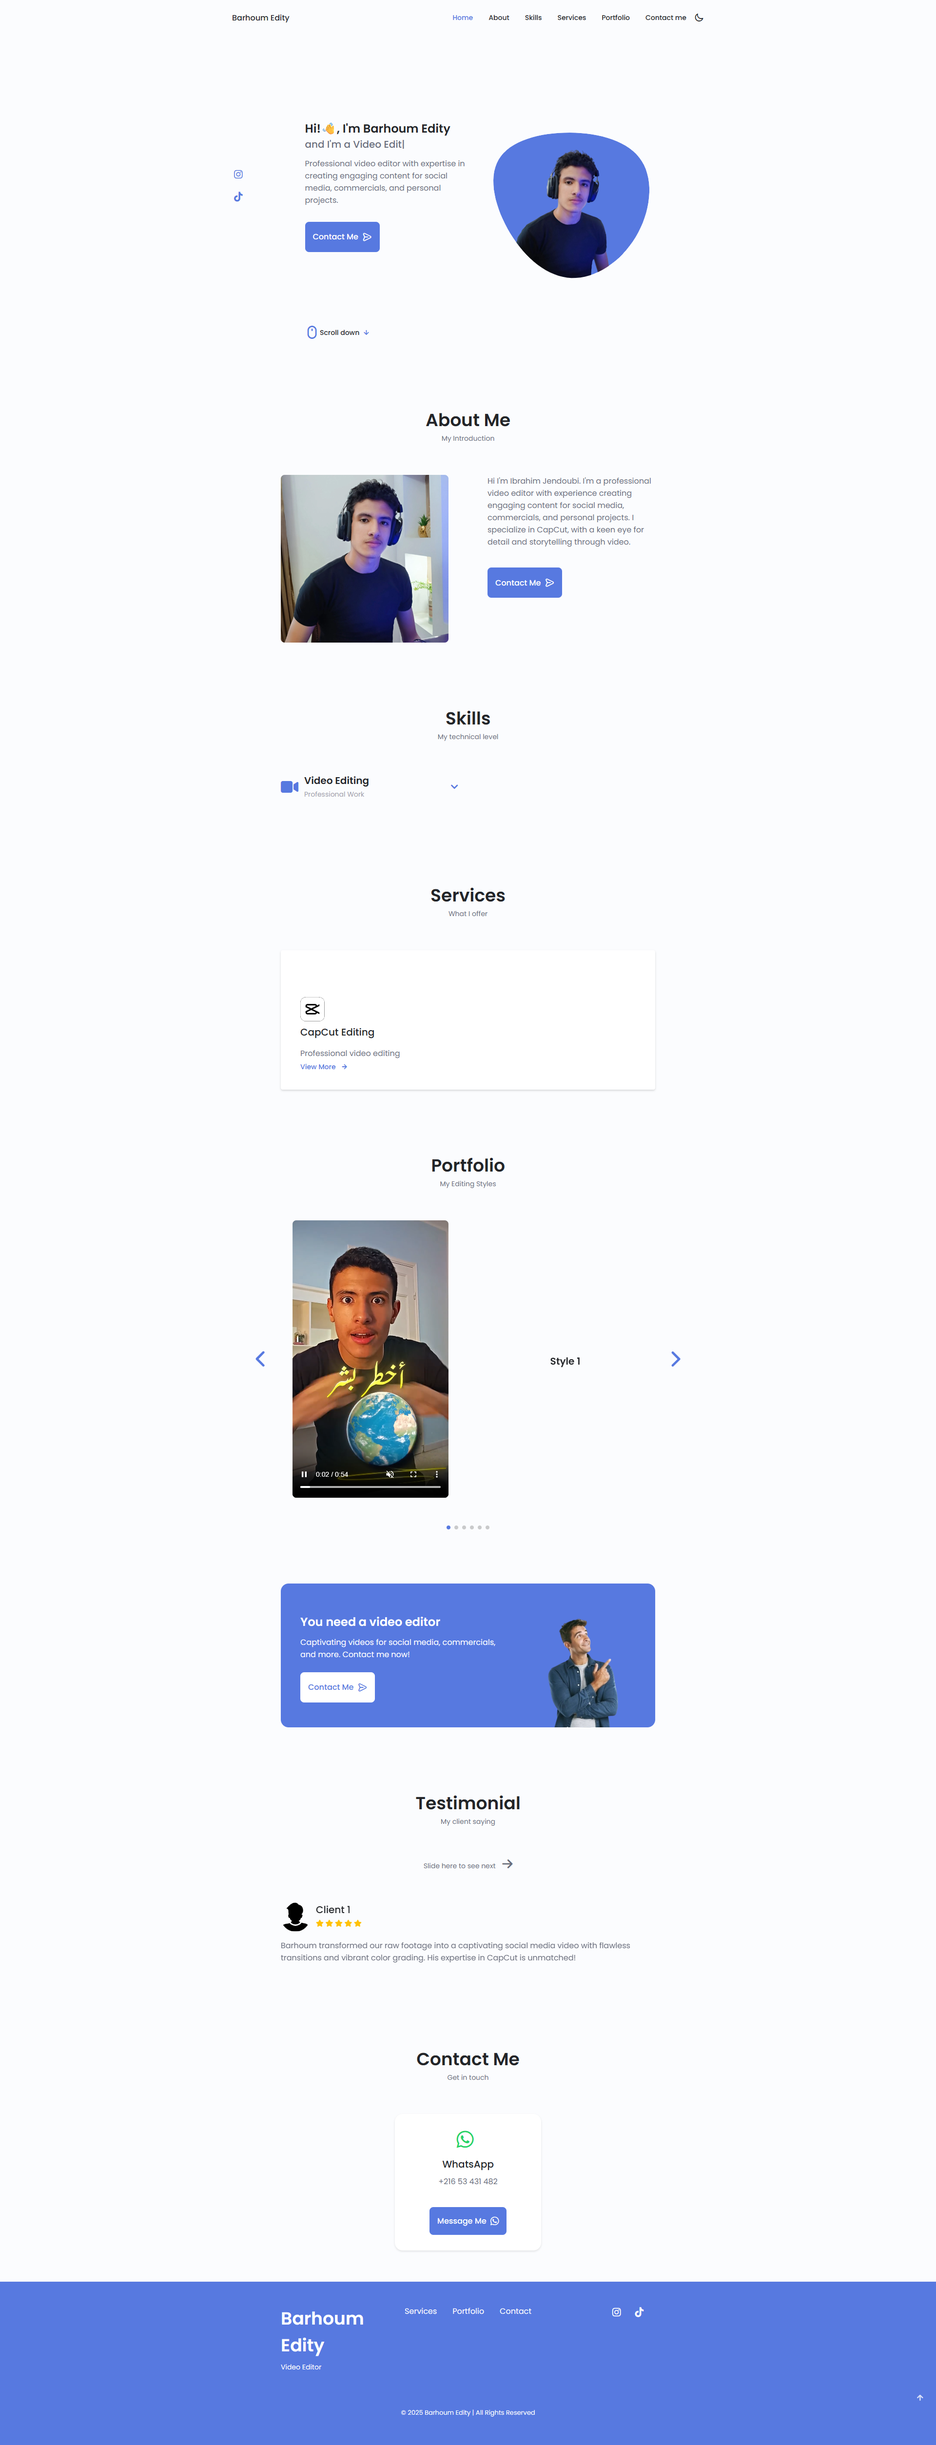
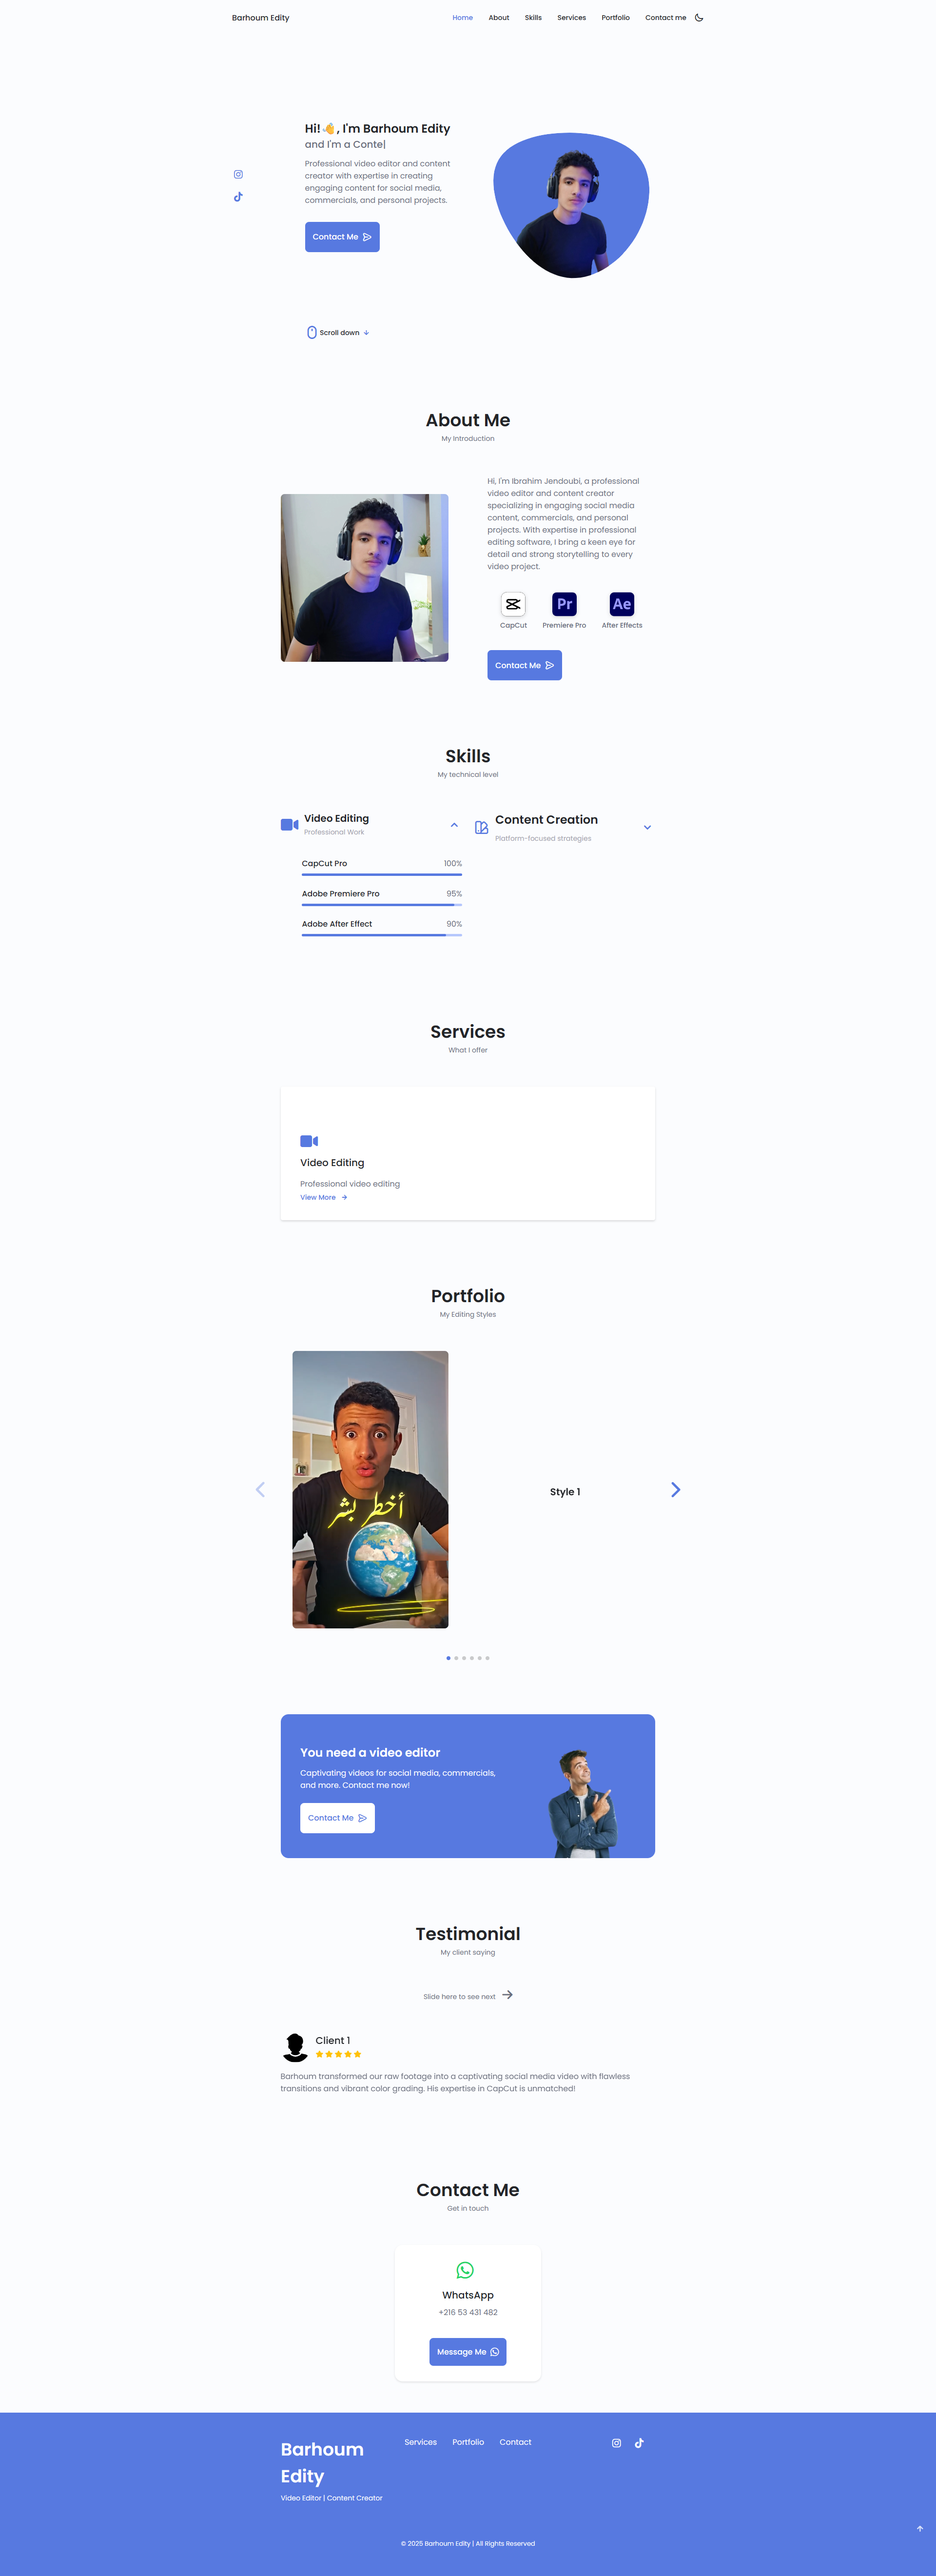
Add files via upload

diff --git a/index.html b/index.html
@@ -7,7 +7,7 @@ Copyright © 2025 Rayen. All rights reserved.
 -->
 <head>
     <meta charset="UTF-8" />
-    <meta name="viewport" content="width=device-width, initial-scale=1.0" />
+    <meta name="viewport" content="width=device-width, initial-scale=1.0, maximum-scale=1.0, user-scalable=no">
     <meta name="description" content="I'm Mrinmoy,and this is my personal portfolio website..">
     <meta name="keywords" content="Mrinmoy, Mrinmoy Deka, mrinmoy ">
 
@@ -134,7 +134,7 @@ Copyright © 2025 Rayen. All rights reserved.
                             and I'm <span class="auto-input"></span>
                         </h3>
                         <p class="home__description">
-                            Professional video editor with expertise in creating engaging content for social media, commercials, and personal projects.
+                            Professional video editor and content creator with expertise in creating engaging content for social media, commercials, and personal projects.
                         </p>
                         <a href="#contact" class="button button--flex">
                             Contact Me <i class="uil uil-message button__icon"></i>
@@ -162,26 +162,22 @@ Copyright © 2025 Rayen. All rights reserved.
 
                 <div class="about__data">
                     <p class="about__description">
-                        Hi I'm Ibrahim Jendoubi. I'm a professional video editor with experience creating engaging content for social media, commercials, and personal projects. I specialize in CapCut, with a keen eye for detail and storytelling through video.
+                        Hi, I'm Ibrahim Jendoubi, a professional video editor and content creator specializing in engaging social media content, commercials, and personal projects. With expertise in professional editing software, I bring a keen eye for detail and strong storytelling to every video project.
                     </p>
-
-                    <!-- <div class="about_info">
-                        <div>
-                            <span class="about__info-title">02+</span>
-                            <span class="about__info-name">Years <br />
-                                experience</span>
+                    <div class="about__skills">
+                        <div class="skill__icon">
+                            <img src="assets/img/capcut.svg" alt="CapCut" title="CapCut Pro">
+                            <span class="skill__name">CapCut</span>
                         </div>
-                        <div>
-                            <span class="about__info-title">20+</span>
-                            <span class="about__info-name">Completed <br />
-                                project</span>
+                        <div class="skill__icon">
+                            <img src="assets/img/premiere.svg" alt="Premiere Pro" title="Adobe Premiere Pro">
+                            <span class="skill__name">Premiere Pro</span>
                         </div>
-                        <div>
-                            <span class="about__info-title">24/7</span>
-                            <span class="about__info-name">Online<br />
-                                support</span>
+                        <div class="skill__icon">
+                            <img src="assets/img/aftereffects.svg" alt="After Effects" title="Adobe After Effects">
+                            <span class="skill__name">After Effects</span>
                         </div>
-                    </div> -->
+                    </div>
 
                     <div class="about__buttons">
                         <a href="#contact" class="button button--flex">
@@ -196,7 +192,7 @@ Copyright © 2025 Rayen. All rights reserved.
         <section class="skills section" id="skills">
             <h2 class="section__title">Skills</h2>
             <span class="section__subtitle">My technical level</span>
-        
+
             <div data-aos="fade-up" class="skills__container container grid">
                 <div>
                     <!--==================== SKILL 1 ====================-->
@@ -220,10 +216,77 @@ Copyright © 2025 Rayen. All rights reserved.
                                     <span class="skills__percentage skills__capcut"></span>
                                 </div>
                             </div>
+                            <div class="skills__data">
+                                <div class="skills__titles">
+                                    <h3 class="skills__name">Adobe Premiere Pro</h3>
+                                    <span class="skills__number">95%</span>
+                                </div>
+                                <div class="skills__bar">
+                                    <span class="skills__percentage skills__premiere"></span>
+                                </div>
+                            </div>
+                            <div class="skills__data">
+                                <div class="skills__titles">
+                                    <h3 class="skills__name">Adobe After Effect</h3>
+                                    <span class="skills__number">90%</span>
+                                </div>
+                                <div class="skills__bar">
+                                    <span class="skills__percentage skills__afterEffect"></span>
+                                </div>
+                            </div>
+                        </div>
+                    </div>
+                </div>
+
+                <div>
+                    <!--==================== SKILL 2 ====================-->
+                    <div class="skills__content skills__close">
+                        <div class="skills__header">
+                            <i class="uil uil-swatchbook skills__icon"></i>
+                            <div>
+                                <h1 class="skills__titles">Content Creation</h1>
+                                <span class="skills__subtitle">Platform-focused strategies</span>
+                            </div>
+                            <i class="uil uil-angle-down skills__arrow"></i>
+                        </div>
+                    
+                        <div class="skills__list grid">
+                            <div class="skills__data">
+                                <div class="skills__titles">
+                                    <h3 class="skills__name">Social Video Production</h3>
+                                    <span class="skills__number">90%</span>
+                                </div>
+                                <div class="skills__bar">
+                                    <span class="skills__percentage skills__production"></span>
+                                </div>
+                            </div>
+                    
+                            <div class="skills__data">
+                                <div class="skills__titles">
+                                    <h3 class="skills__name">Audience Engagement</h3>
+                                    <span class="skills__number">85%</span>
+                                </div>
+                                <div class="skills__bar">
+                                    <span class="skills__percentage skills__engagement"></span>
+                                </div>
+                            </div>
+                    
+                            <div class="skills__data">
+                                <div class="skills__titles">
+                                    <h3 class="skills__name">Platform Algorithms</h3>
+                                    <span class="skills__number">80%</span>
+                                </div>
+                                <div class="skills__bar">
+                                    <span class="skills__percentage skills__algorithms"></span>
+                                </div>
+                            </div>
                         </div>
                     </div>
                 </div>
             </div>
+            </div>
+
+
         </section>
 
         <!--==================== SERVICES ====================-->
@@ -235,12 +298,12 @@ Copyright © 2025 Rayen. All rights reserved.
                 <!-- Single Service -->
                 <div class="services__content">
                     <div class="services__header">
-                        <div class="services__icon-container">
-                            <img src="assets/img/capcut.svg" alt="CapCut" class="services__svg-icon">
+                        <div class="services__icon-container" style="padding-bottom: 10px;">
+                            <i class="fas fa-video skills__icon"></i>
                         </div>
                         <div>
-                            <h3 class="services__title">CapCut Editing</h3>
-                            <span class="services__subtitle" style="padding-bottom: 100px;">Professional video editing</span>
+                            <h3 class="services__title" style="padding-bottom: 0px;">Video Editing</h3>
+                            <span class="services__subtitle">Professional video editing</span>
                         </div>
                     </div>
                     <span class="button button--flex button--small button--link services__button">
@@ -250,7 +313,7 @@ Copyright © 2025 Rayen. All rights reserved.
         
                     <div class="services__modal">
                         <div class="services__modal-content">
-                            <h4 class="services__modal-title">CapCut Video Editing</h4>
+                            <h4 class="services__modal-title">Video Editing</h4>
                             <i class="uil uil-times services__modal-close"></i>
                     
                             <ul class="services__modal-services grid">
@@ -512,7 +575,7 @@ Copyright © 2025 Rayen. All rights reserved.
             <div class="footer__container container grid">
                 <div>
                     <h1 class="footer__title">Barhoum Edity</h1>
-                    <span class="footer__subtitle">Video Editor</span>
+                    <span class="footer__subtitle">Video Editor | Content Creator</span>
                 </div>
 
                 <ul class="footer__links">
@@ -558,7 +621,10 @@ Copyright © 2025 Rayen. All rights reserved.
     <script src="https://cdn.jsdelivr.net/npm/typed.js@2.0.12"></script>
     <script>
         var typed = new Typed(".auto-input", {
-                strings: ["a Video Editor"],
+                strings: [
+                "a Video Editor",
+                "a Content Creator",
+            ],
                 typeSpeed: 100,
                 backSpeed: 100,
                 loop: true

diff --git a/assets/css/style.css b/assets/css/style.css
@@ -1,6 +1,5 @@
 /*==================== GOOGLE FONTS ====================*/
 @import url("https://fonts.googleapis.com/css2?family=Poppins:wght@400;500;600&display=swap");
-
 /*==================== VARIABLES CSS ====================*/
 :root {
   --header-height: 3rem;
@@ -421,7 +420,7 @@ img {
   margin-bottom: var(--mb-2-5);
 }
 
-.about_info {
+/* .about_info {
   display: flex;
   justify-content: space-evenly;
   margin-bottom: var(--mb-2-5);
@@ -441,7 +440,46 @@ img {
 .about__info-name {
   display: block;
   text-align: center;
+} */
+
+/*==================== ABOUT SKILL ICONS ====================*/
+.about__skills {
+    display: flex;
+    justify-content: center;
+    gap: 2rem;
+    margin-bottom: var(--mb-2-5);
 }
+
+.skill__icon {
+    display: flex;
+    flex-direction: column;
+    align-items: center;
+    transition: transform 0.3s ease;
+}
+
+.skill__icon img {
+    width: 50px;
+    height: 50px;
+    margin-bottom: var(--mb-0-5);
+    filter: drop-shadow(0 2px 4px rgba(0, 0, 0, 0.15));
+}
+
+.skill__icon:hover {
+    transform: translateY(-0.25rem);
+}
+
+.skill__name {
+    font-size: var(--small-font-size);
+    color: var(--text-color);
+    font-weight: var(--font-medium);
+}
+
+/* Dark theme adjustments */
+body.dark-theme .skill__icon img {
+    filter: drop-shadow(0 2px 4px rgba(0, 0, 0, 0.4));
+}
+
+
 
 .about__buttons {
   display: flex;
@@ -451,11 +489,6 @@ img {
 /*==================== SKILLS ====================*/
 .skills__container {
   row-gap: 0;
-}
-
-.skills__content {
-    width: 100%;
-    max-width: 500px;
 }
 
 .skills__header {
@@ -521,6 +554,28 @@ img {
   background-color: var(--first-color);
 }
 
+.skills__premiere {
+  width: 95%;
+}
+
+.skills__afterEffect {
+  width: 90%;;
+}
+
+.skills__capcut {
+    width: 100%;
+}
+
+.skills__production {
+    width: 90%;
+}
+.skills__engagement {
+    width: 85%;
+}
+.skills__algorithms {
+    width: 80%;
+}
+
 .skills__close .skills__list {
   height: 0;
   overflow: hidden;
@@ -535,9 +590,6 @@ img {
   transform: rotate(-180deg);
 }
 
-.skills__capcut {
-    width: 100%;
-}
 
 /*==================== SERVICES ====================*/
 .skills__container {
@@ -1345,8 +1397,52 @@ footer .footer__social a:hover {
   }
 }
 
-/*==================== Skills logo ====================*/
-.skills__logo:hover{
-  transform: translateY(-.25rem);
-  transition: 1s;
+/* 1. Ensure containers don't exceed viewport */
+@media screen and (max-width: 768px) {
+  .container {
+    margin-left: var(--mb-1);
+    margin-right: var(--mb-1);
+    width: calc(100% - 2rem); /* Accounts for margins */
+  }
+  
+  /* 2. Fix any swiper overflow */
+  .portfolio__container.swiper-container {
+    padding: 0 1rem;
+    width: calc(100% - 2rem);
+    margin: 0 auto;
+  }
+  
+  /* 3. Check the home blob */
+  .home__blob {
+    max-width: 180px;
+  }
+  
+  /* 4. Prevent grid blowout */
+  .grid {
+    min-width: 0; /* Allows grid items to shrink */
+  }
+}
+
+/* 5. Safely contain absolutely positioned elements */
+@media screen and (max-width: 768px) {
+  .home__content {
+    position: relative;
+    overflow: hidden;
+  }
+}
+
+/* Add this to your CSS */
+.main {
+  /* Creates a new stacking/containment context */
+  contain: layout;
+  /* Alternative if 'contain' isn't widely supported */
+  overflow: hidden;
+  position: relative;
+}
+
+@media screen and (max-width: 768px) {
+  .main {
+    /* More aggressive containment for mobile */
+    display: flow-root; /* Modern clearfix */
+  }
 }

diff --git a/assets/js/main.js b/assets/js/main.js
@@ -74,7 +74,7 @@ modalCloses.forEach((modalClose) => {
 /*==================== PORTFOLIO SWIPER  ====================*/
 let swiperPortfolio = new Swiper('.portfolio__container', {
     cssMode: true,
-    loop: true,
+    loop: false,
 
     navigation: {
         nextEl: '.swiper-button-next',
